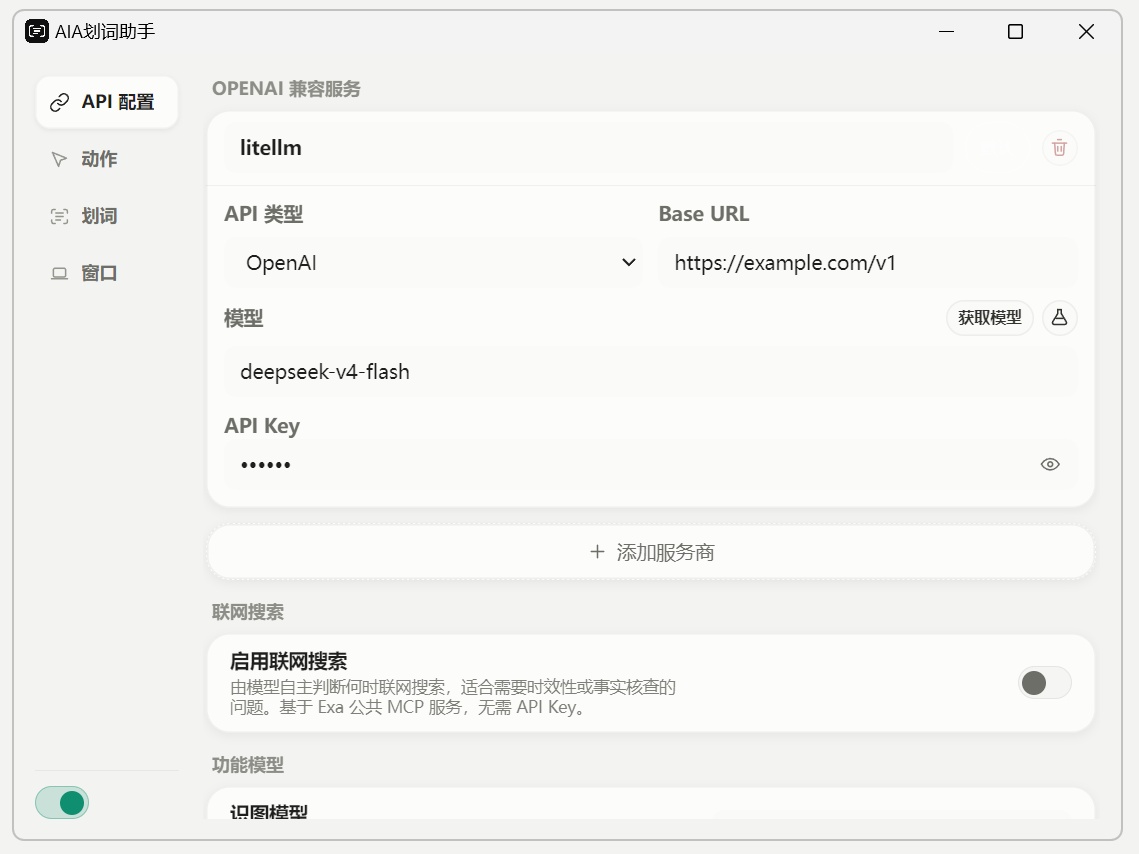
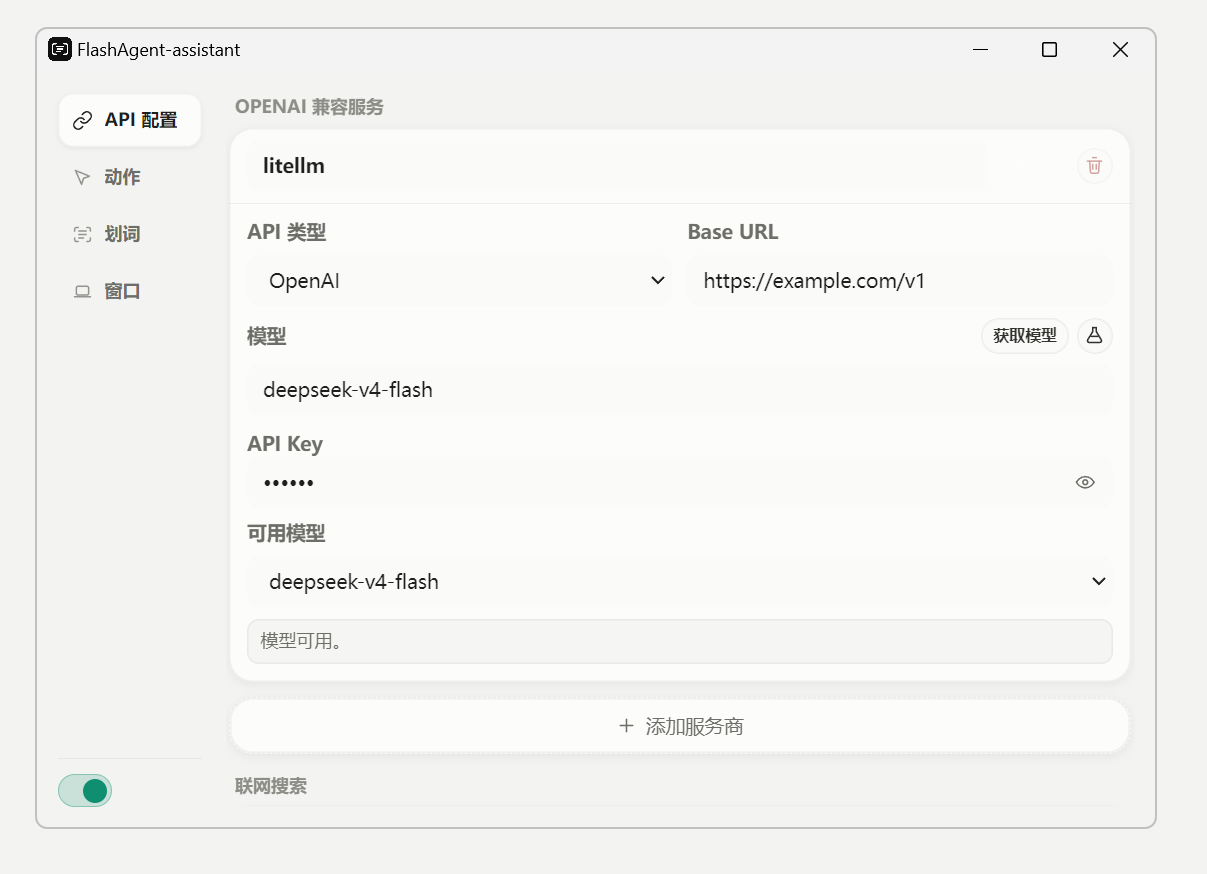
docs: refresh branded settings screenshots

diff --git a/README.en.md b/README.en.md
@@ -37,6 +37,8 @@ This project is a derivative of [zcx960/AIA-selection-assistan](https://github.c
 
 ## Screenshots
 
+The screenshots below show the current FlashAgent-assistant settings interface.
+
 ### Settings
 
 <p>

diff --git a/README.md b/README.md
@@ -37,6 +37,8 @@ FlashAgent-assistant 是面向快速问答与轻量 Agent 工作流的桌面 AI 
 
 ## 界面预览
 
+以下截图展示当前版本 FlashAgent-assistant 的设置界面。
+
 ### 设置
 
 <p>
